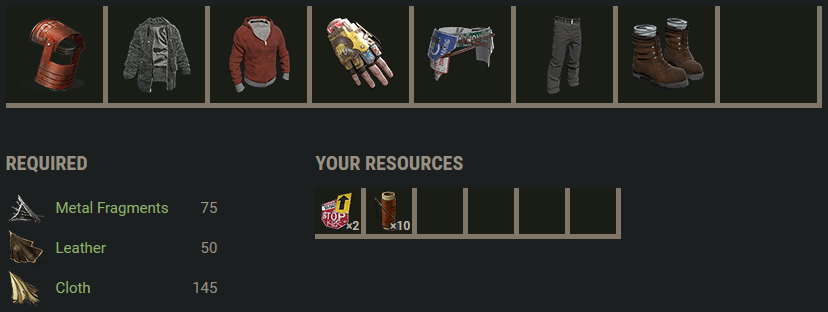
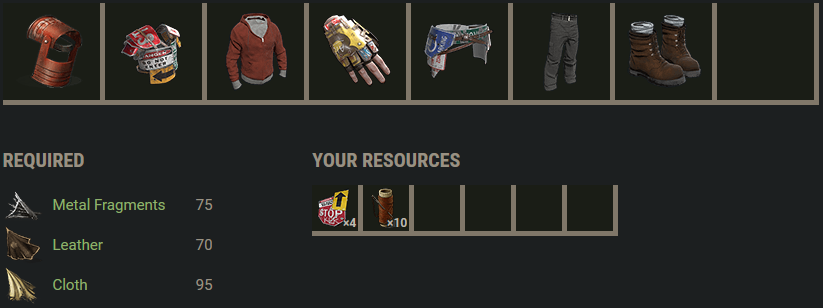
Changed late T2 armor set

diff --git a/Gearsets.md b/Gearsets.md
@@ -50,7 +50,7 @@
 
 |Type|Link|Image|Additional Notes|
 |-----|----|-----|-----|
-|Armor|[Rustlabs Calculator](https://rustlabs.com/craft-calculator#task=bPDEx9gQQG87kTdkGdV0c0Ryqo9PSMONb4_6lUXChC9r-FWdVRI_sByoo;ingredients=bJaFX42dhGS-KZwpjIAe)|![](resources/gearsets/t2-late-armor.png)|Armor: 35%, 45%, 45%|
+|Armor|[Rustlabs Calculator](https://rustlabs.com/craft-calculator#task=bPDEx9gQQG88USkIQdV0c0Ryqo9PSMONb4_6lUXChC9r-FWdVRI_sByoo;ingredients=bJbFX42dhG9FYzRhKXnae)|![](resources/gearsets/t2-late-armor.png)|Armor: 35%, 45%, 45%|
 |Gear|[Rustlabs Calculator](https://rustlabs.com/craft-calculator#task=bMbEA058uG87qyDXGpHpVCiYcaFp5cO-8WEai;ingredients=bLDCFSEOIp4pogH1brTdZZIYaWhEXgRw9a5i)|![](resources/gearsets/t2-late-gear.png)|X|
 
 ## Tier 3
